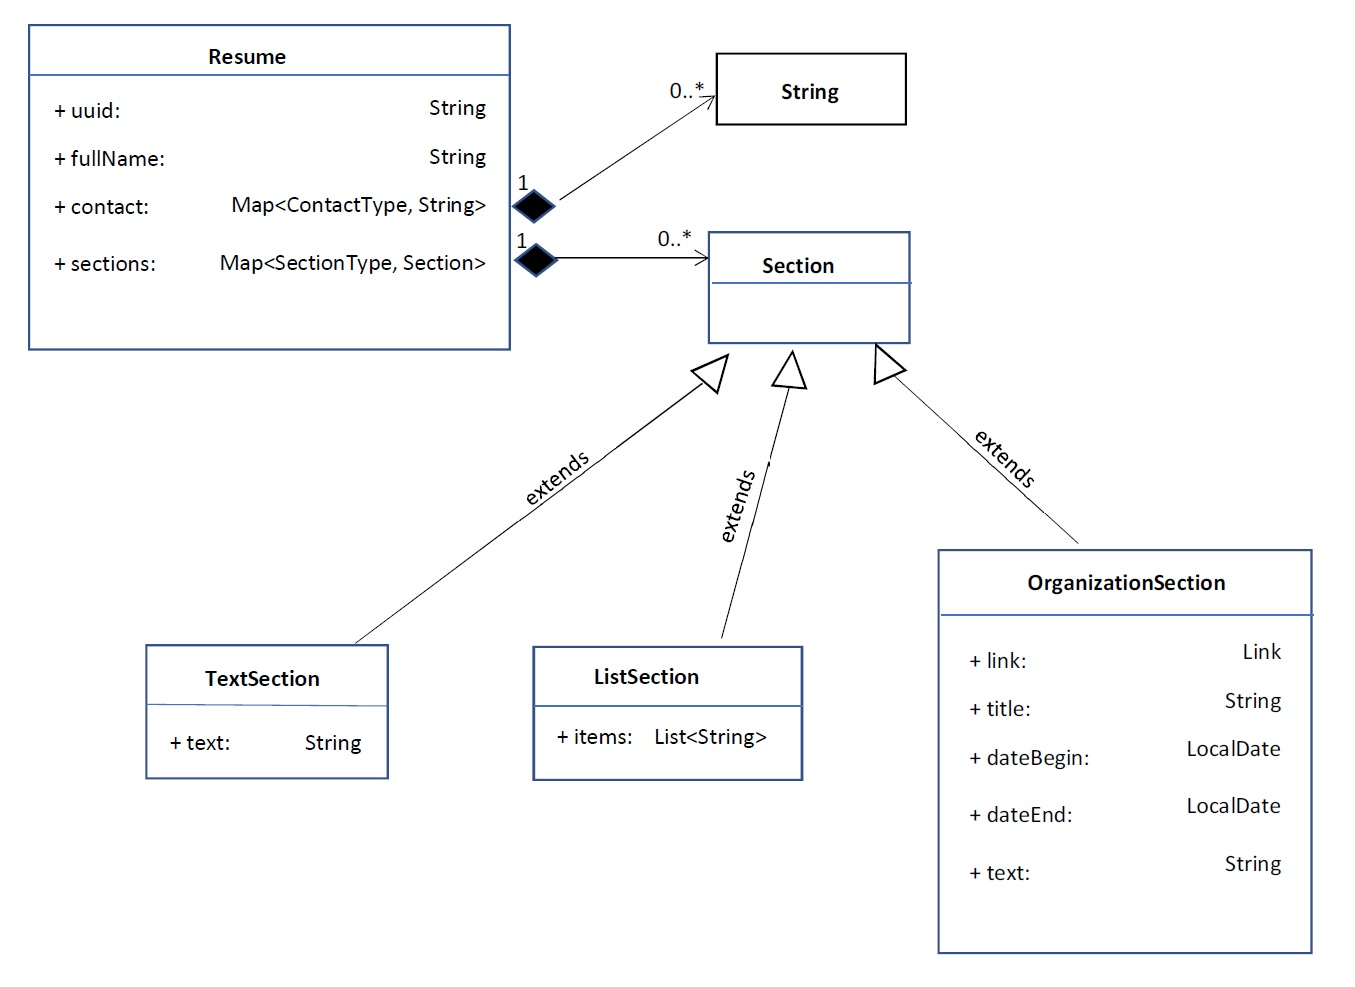
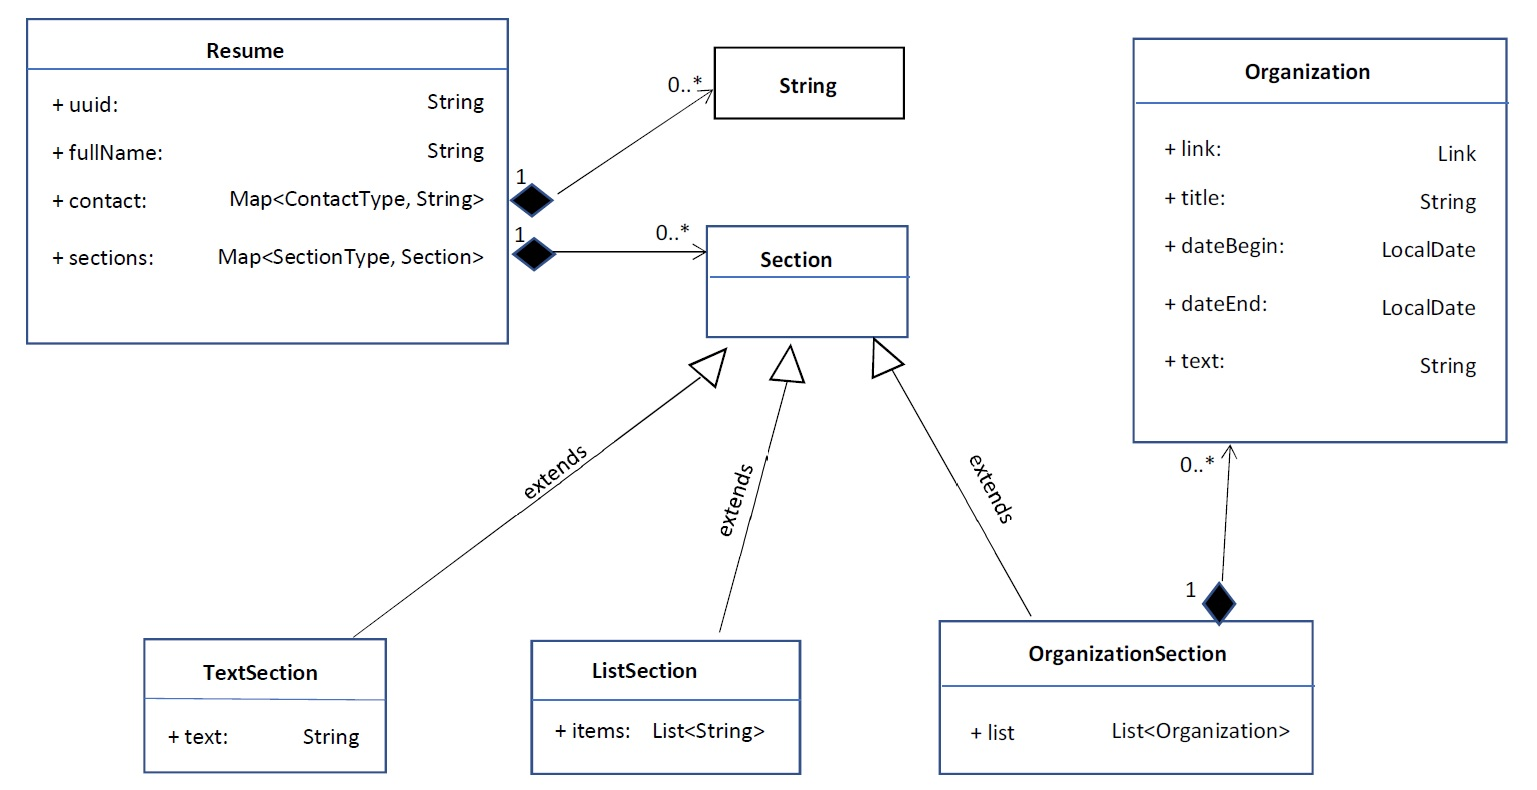
Make class Organization. Put List<Organization> in OrganizationSection

diff --git a/src/com/urise/webapp/MainReflection.java b/src/com/urise/webapp/MainReflection.java
@@ -33,17 +33,28 @@ public class MainReflection {
                 new ListSection(Arrays.asList("С 2013 года: разработка проектов ", "Реализация двухфакторной аутентификации")));
         sections.put(SectionType.QUALIFICATIONS,
                 new ListSection(Arrays.asList("JEE AS: GlassFish (v2.1, v3)", "Version control:")));
-        sections.put(SectionType.EXPERIENCE,
-                new OrganizationSection(new Link("Java Online Projects", "http://javaops.ru/"),
-                        "Автор проекта",
-                        LocalDate.of(2013, 10, 1),
-                        null, "Создание, организация и проведение Java онлайн проектов и стажировок."));
-        sections.put(SectionType.EDUCATION,
-                new OrganizationSection(new Link("Coursera", "https://www.coursera.org/course/progfun"),
-                        "Functional Programming Principles in Scala\" by Martin Odersky",
-                        LocalDate.of(2013, 3, 1),
-                        LocalDate.of(2013, 5, 1),
-                        ""));
+
+        Organization experience1 = new Organization(new Link("Java Online Projects", "http://javaops.ru/"),
+                "Автор проекта",
+                LocalDate.of(2013, 10, 1),
+                null, "Создание, организация и проведение Java онлайн проектов и стажировок.");
+        Organization experience2 = new Organization(new Link("Wrike", "https://www.wrike.com/"),
+                "Старший разработчик (backend)",
+                LocalDate.of(2014, 10, 1),
+                LocalDate.of(2016, 1, 1), "Проектирование и разработка онлайн платформы управления проектами Wrike");
+        sections.put(SectionType.EXPERIENCE, new OrganizationSection(Arrays.asList(experience1, experience2)));
+
+        Organization education1 = new Organization(new Link("Coursera", "https://www.coursera.org/course/progfun"),
+                "Functional Programming Principles in Scala\" by Martin Odersky",
+                LocalDate.of(2013, 3, 1),
+                LocalDate.of(2013, 5, 1),
+                "");
+        Organization education2 = new Organization(new Link("Luxoft", "http://www.luxoft-training.ru/training/catalog/course.html?ID=22366"),
+                "Курс \"Объектно-ориентированный анализ ИС. Концептуальное моделирование на UML.\"",
+                LocalDate.of(2011, 3, 1),
+                LocalDate.of(2011, 4, 1),
+                "");
+        sections.put(SectionType.EDUCATION, new OrganizationSection(Arrays.asList(education1, education2)));
         resume.setSections(sections);
         System.out.println(resume);
     }

diff --git a/src/com/urise/webapp/model/OrganizationSection.java b/src/com/urise/webapp/model/OrganizationSection.java
@@ -1,61 +1,22 @@
 package com.urise.webapp.model;
 
-import java.time.LocalDate;
+import java.util.ArrayList;
+import java.util.List;
 import java.util.Objects;
 
 public class OrganizationSection implements Section {
-    private Link link;
-    private String title;
-    private LocalDate dateBegin;
-    private LocalDate dateEnd;
-    private String text;
+    private List<Organization> list;
 
-    public OrganizationSection(Link link, String title, LocalDate dateBegin, LocalDate dateEnd, String text) {
-        this.link = link;
-        this.title = title;
-        this.dateBegin = dateBegin;
-        this.dateEnd = dateEnd;
-        this.text = text;
+    public OrganizationSection(List<Organization> list) {
+        this.list = list;
     }
 
-    public Link getLink() {
-        return link;
+    public List<Organization> getList() {
+        return new ArrayList<>(list);
     }
 
-    public void setLink(Link link) {
-        this.link = link;
-    }
-
-    public String getTitle() {
-        return title;
-    }
-
-    public void setTitle(String title) {
-        this.title = title;
-    }
-
-    public LocalDate getDateBegin() {
-        return dateBegin;
-    }
-
-    public void setDateBegin(LocalDate dateBegin) {
-        this.dateBegin = dateBegin;
-    }
-
-    public LocalDate getDateEnd() {
-        return dateEnd;
-    }
-
-    public void setDateEnd(LocalDate dateEnd) {
-        this.dateEnd = dateEnd;
-    }
-
-    public String getText() {
-        return text;
-    }
-
-    public void setText(String text) {
-        this.text = text;
+    public void setList(List<Organization> list) {
+        this.list = list;
     }
 
     @Override
@@ -63,26 +24,18 @@ public class OrganizationSection implements Section {
         if (this == o) return true;
         if (o == null || getClass() != o.getClass()) return false;
         OrganizationSection that = (OrganizationSection) o;
-        return Objects.equals(link, that.link) &&
-                Objects.equals(title, that.title) &&
-                Objects.equals(dateBegin, that.dateBegin) &&
-                Objects.equals(dateEnd, that.dateEnd) &&
-                Objects.equals(text, that.text);
+        return Objects.equals(list, that.list);
     }
 
     @Override
     public int hashCode() {
-        return Objects.hash(link, title, dateBegin, dateEnd, text);
+        return Objects.hash(list);
     }
 
     @Override
     public String toString() {
         return "OrganizationSection{" +
-                "link=" + link +
-                ", title='" + title + '\'' +
-                ", dateBegin=" + dateBegin +
-                ", dateEnd=" + dateEnd +
-                ", text='" + text + '\'' +
+                "list=" + list +
                 '}';
     }
 }

diff --git a/test/com/urise/webapp/storage/AbstractStorageTest.java b/test/com/urise/webapp/storage/AbstractStorageTest.java
@@ -2,11 +2,11 @@ package com.urise.webapp.storage;
 
 import com.urise.webapp.exception.ExistStorageException;
 import com.urise.webapp.exception.NotExistStorageException;
-import com.urise.webapp.model.*;
+import com.urise.webapp.model.ContactType;
+import com.urise.webapp.model.Resume;
 import org.junit.Before;
 import org.junit.Test;
 
-import java.time.LocalDate;
 import java.util.*;
 
 import static org.junit.Assert.assertEquals;
@@ -33,26 +33,6 @@ public abstract class AbstractStorageTest {
         contacts.put(ContactType.SKYPE, "grigory.kislin");
         contacts.put(ContactType.EMAIL, "gkislin@yandex.ru");
         resume1.setContact(contacts);
-        Map<SectionType, Section> sections = new HashMap<>();
-        sections.put(SectionType.OBJECTIVE, new TextSection("Ведущий стажировок и корпоративного обучения по Java Web и Enterprise технологиям"));
-        sections.put(SectionType.PERSONAL, new TextSection("Аналитический склад ума,"));
-        sections.put(SectionType.ACHIEVEMENT,
-                new ListSection(Arrays.asList("С 2013 года: разработка проектов ", "Реализация двухфакторной аутентификации")));
-        sections.put(SectionType.QUALIFICATIONS,
-                new ListSection(Arrays.asList("JEE AS: GlassFish (v2.1, v3)", "Version control:")));
-        sections.put(SectionType.EXPERIENCE,
-                new OrganizationSection(new Link("Java Online Projects", "http://javaops.ru/"),
-                        "Автор проекта",
-                        LocalDate.of(2013, 10, 1),
-                        null, "Создание, организация и проведение Java онлайн проектов и стажировок."));
-        sections.put(SectionType.EDUCATION,
-                new OrganizationSection(new Link("Coursera", "https://www.coursera.org/course/progfun"),
-                        "Functional Programming Principles in Scala\" by Martin Odersky",
-                        LocalDate.of(2013, 3, 1),
-                        LocalDate.of(2013, 5, 1),
-                        ""));
-        resume1.setSections(sections);
-        System.out.println(resume1);
         storage.save(resume2);
         storage.save(resume3);
         countResumesBeforeTest = storage.size();

diff --git a/src/com/urise/webapp/model/Organization.java b/src/com/urise/webapp/model/Organization.java
@@ -1,0 +1,88 @@
+package com.urise.webapp.model;
+
+import java.time.LocalDate;
+import java.util.Objects;
+
+public class Organization {
+    private Link link;
+    private String title;
+    private LocalDate dateBegin;
+    private LocalDate dateEnd;
+    private String text;
+
+    public Organization(Link link, String title, LocalDate dateBegin, LocalDate dateEnd, String text) {
+        this.link = link;
+        this.title = title;
+        this.dateBegin = dateBegin;
+        this.dateEnd = dateEnd;
+        this.text = text;
+    }
+
+    public Link getLink() {
+        return link;
+    }
+
+    public void setLink(Link link) {
+        this.link = link;
+    }
+
+    public String getTitle() {
+        return title;
+    }
+
+    public void setTitle(String title) {
+        this.title = title;
+    }
+
+    public LocalDate getDateBegin() {
+        return dateBegin;
+    }
+
+    public void setDateBegin(LocalDate dateBegin) {
+        this.dateBegin = dateBegin;
+    }
+
+    public LocalDate getDateEnd() {
+        return dateEnd;
+    }
+
+    public void setDateEnd(LocalDate dateEnd) {
+        this.dateEnd = dateEnd;
+    }
+
+    public String getText() {
+        return text;
+    }
+
+    public void setText(String text) {
+        this.text = text;
+    }
+
+    @Override
+    public boolean equals(Object o) {
+        if (this == o) return true;
+        if (o == null || getClass() != o.getClass()) return false;
+        Organization that = (Organization) o;
+        return Objects.equals(link, that.link) &&
+                Objects.equals(title, that.title) &&
+                Objects.equals(dateBegin, that.dateBegin) &&
+                Objects.equals(dateEnd, that.dateEnd) &&
+                Objects.equals(text, that.text);
+    }
+
+    @Override
+    public int hashCode() {
+        return Objects.hash(link, title, dateBegin, dateEnd, text);
+    }
+
+    @Override
+    public String toString() {
+        return "OrganizationSection{" +
+                "link=" + link +
+                ", title='" + title + '\'' +
+                ", dateBegin=" + dateBegin +
+                ", dateEnd=" + dateEnd +
+                ", text='" + text + '\'' +
+                '}';
+    }
+}
